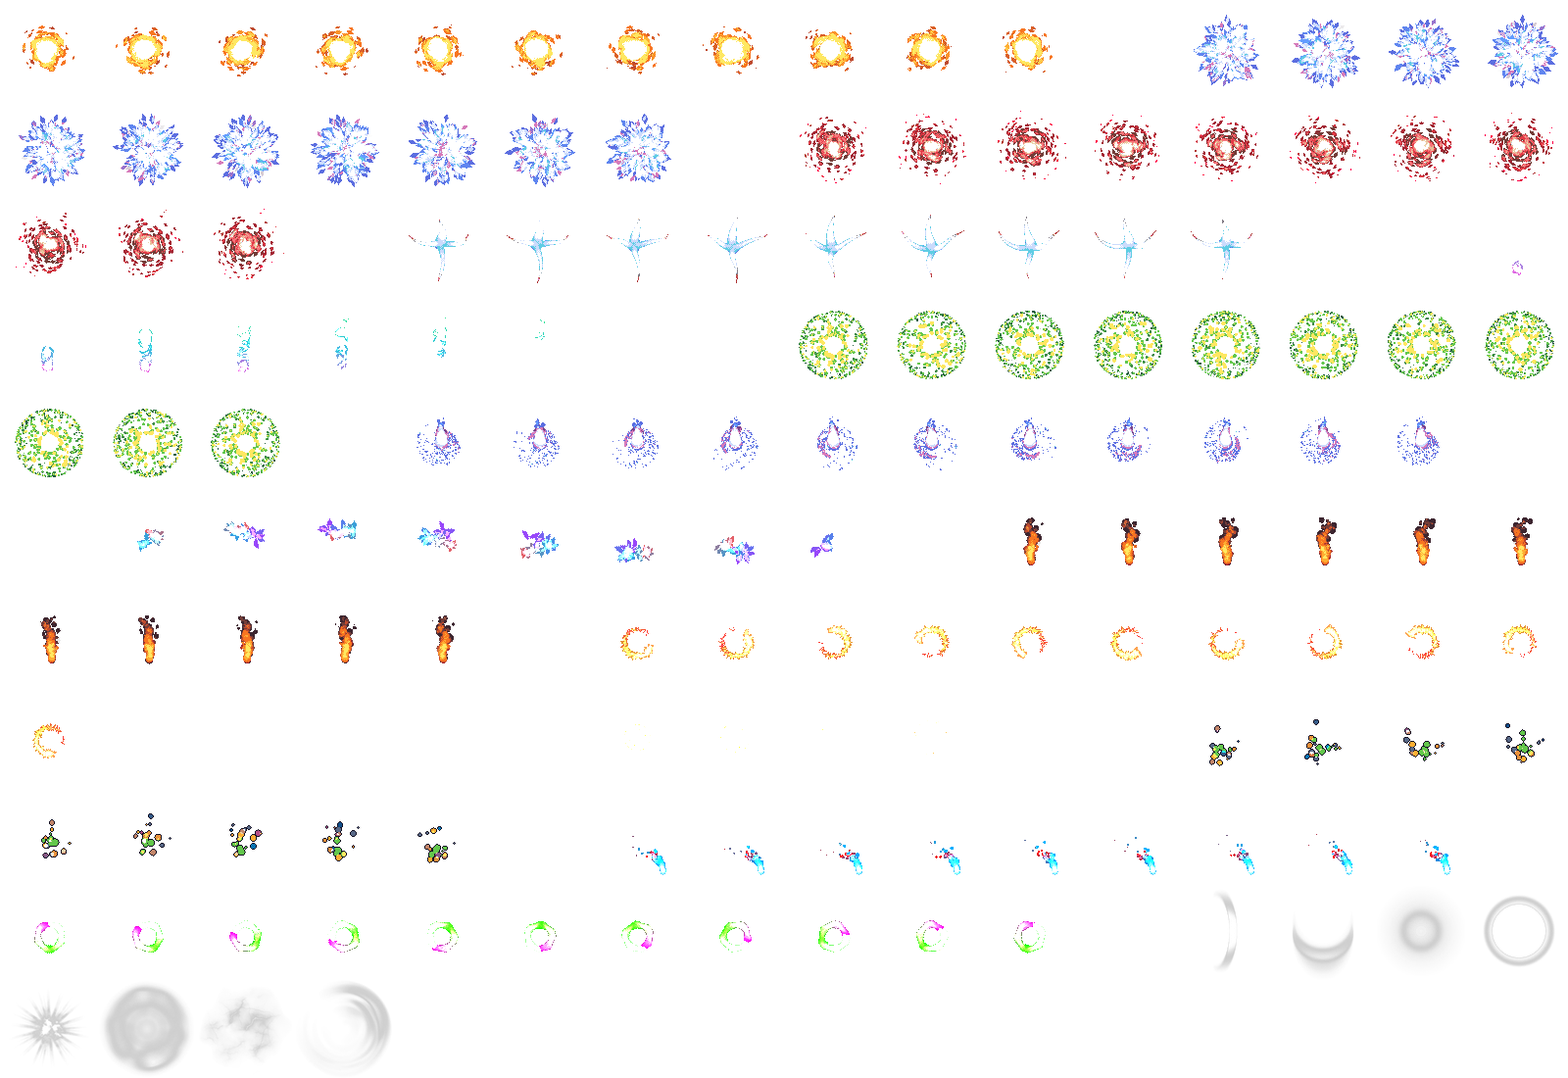
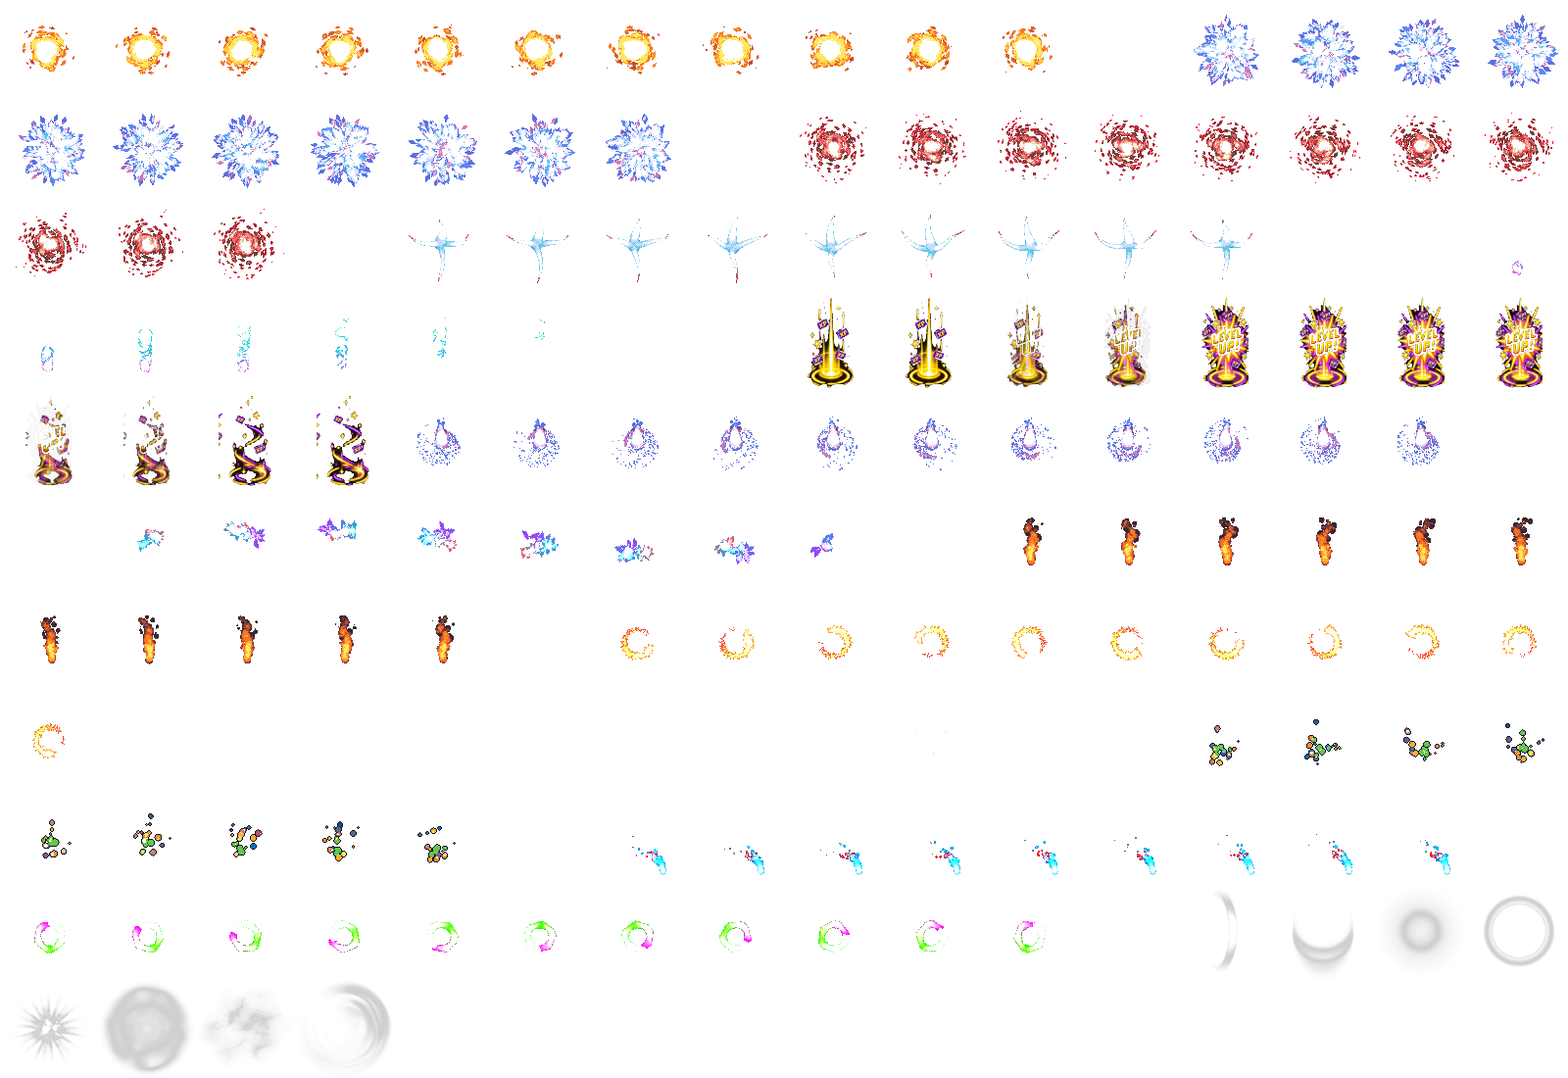
feat: gold/purple LEVEL UP FX instead of green glow
Replace CodeManu felspell with custom afx_levelup, feet-anchored so the ring sits on the character.

Changed region(s): [[0.5, 0.2782, 1.0, 0.3709], [0.0, 0.3709, 0.25, 0.4636]]

diff --git a/src/game/data/atlas-frames/anim-fx.js b/src/game/data/atlas-frames/anim-fx.js
@@ -1,4 +1,5 @@
 // Автогенерировано tools/assets/build_anim_atlas.py — не редактировать руками.
-// Источники: CodeManu Free Pixel Effects Pack (CC0), Kenney Particle Pack (CC0).
-window.ANIM_FX_DEFS = {"afx_explosion": {"frames": 12, "loop": false, "fps": 24, "tint": false}, "afx_bigburst": {"frames": 12, "loop": false, "fps": 24, "tint": false}, "afx_vortex": {"frames": 12, "loop": true, "fps": 20, "tint": false}, "afx_slash": {"frames": 10, "loop": false, "fps": 26, "tint": false}, "afx_hit": {"frames": 10, "loop": false, "fps": 28, "tint": false}, "afx_levelup": {"frames": 12, "loop": false, "fps": 22, "tint": false}, "afx_darkburst": {"frames": 12, "loop": false, "fps": 22, "tint": false}, "afx_heal": {"frames": 10, "loop": false, "fps": 22, "tint": false}, "afx_fireloop": {"frames": 12, "loop": true, "fps": 16, "tint": false}, "afx_firespin": {"frames": 12, "loop": true, "fps": 18, "tint": false}, "afx_ring": {"frames": 10, "loop": false, "fps": 26, "tint": false}, "afx_bubbles": {"frames": 10, "loop": true, "fps": 14, "tint": false}, "afx_bluefire": {"frames": 10, "loop": false, "fps": 24, "tint": false}, "afx_protect": {"frames": 12, "loop": true, "fps": 16, "tint": false}, "kfx_slash": {"frames": 1, "loop": false, "fps": 1, "tint": true}, "kfx_slash_wide": {"frames": 1, "loop": false, "fps": 1, "tint": true}, "kfx_circle": {"frames": 1, "loop": false, "fps": 1, "tint": true}, "kfx_circle_hard": {"frames": 1, "loop": false, "fps": 1, "tint": true}, "kfx_scorch": {"frames": 1, "loop": false, "fps": 1, "tint": true}, "kfx_glow": {"frames": 1, "loop": false, "fps": 1, "tint": true}, "kfx_spark": {"frames": 1, "loop": false, "fps": 1, "tint": true}, "kfx_twirl": {"frames": 1, "loop": false, "fps": 1, "tint": true}};
+// Источники: CodeManu Free Pixel Effects Pack (CC0), Kenney Particle Pack (CC0),
+// кастомный afx_levelup (tools/assets/custom).
+window.ANIM_FX_DEFS = {"afx_explosion": {"frames": 12, "loop": false, "fps": 24, "tint": false}, "afx_bigburst": {"frames": 12, "loop": false, "fps": 24, "tint": false}, "afx_vortex": {"frames": 12, "loop": true, "fps": 20, "tint": false}, "afx_slash": {"frames": 10, "loop": false, "fps": 26, "tint": false}, "afx_hit": {"frames": 10, "loop": false, "fps": 28, "tint": false}, "afx_levelup": {"frames": 12, "loop": false, "fps": 18, "tint": false}, "afx_darkburst": {"frames": 12, "loop": false, "fps": 22, "tint": false}, "afx_heal": {"frames": 10, "loop": false, "fps": 22, "tint": false}, "afx_fireloop": {"frames": 12, "loop": true, "fps": 16, "tint": false}, "afx_firespin": {"frames": 12, "loop": true, "fps": 18, "tint": false}, "afx_ring": {"frames": 10, "loop": false, "fps": 26, "tint": false}, "afx_bubbles": {"frames": 10, "loop": true, "fps": 14, "tint": false}, "afx_bluefire": {"frames": 10, "loop": false, "fps": 24, "tint": false}, "afx_protect": {"frames": 12, "loop": true, "fps": 16, "tint": false}, "kfx_slash": {"frames": 1, "loop": false, "fps": 1, "tint": true}, "kfx_slash_wide": {"frames": 1, "loop": false, "fps": 1, "tint": true}, "kfx_circle": {"frames": 1, "loop": false, "fps": 1, "tint": true}, "kfx_circle_hard": {"frames": 1, "loop": false, "fps": 1, "tint": true}, "kfx_scorch": {"frames": 1, "loop": false, "fps": 1, "tint": true}, "kfx_glow": {"frames": 1, "loop": false, "fps": 1, "tint": true}, "kfx_spark": {"frames": 1, "loop": false, "fps": 1, "tint": true}, "kfx_twirl": {"frames": 1, "loop": false, "fps": 1, "tint": true}};
 window.ANIM_FX_FRAMES = {"afx_explosion": [{"x": 0, "y": 0, "w": 100, "h": 100}, {"x": 100, "y": 0, "w": 100, "h": 100}, {"x": 200, "y": 0, "w": 100, "h": 100}, {"x": 300, "y": 0, "w": 100, "h": 100}, {"x": 400, "y": 0, "w": 100, "h": 100}, {"x": 500, "y": 0, "w": 100, "h": 100}, {"x": 600, "y": 0, "w": 100, "h": 100}, {"x": 700, "y": 0, "w": 100, "h": 100}, {"x": 800, "y": 0, "w": 100, "h": 100}, {"x": 900, "y": 0, "w": 100, "h": 100}, {"x": 1000, "y": 0, "w": 100, "h": 100}, {"x": 1100, "y": 0, "w": 100, "h": 100}], "afx_bigburst": [{"x": 1200, "y": 0, "w": 100, "h": 100}, {"x": 1300, "y": 0, "w": 100, "h": 100}, {"x": 1400, "y": 0, "w": 100, "h": 100}, {"x": 1500, "y": 0, "w": 100, "h": 100}, {"x": 0, "y": 100, "w": 100, "h": 100}, {"x": 100, "y": 100, "w": 100, "h": 100}, {"x": 200, "y": 100, "w": 100, "h": 100}, {"x": 300, "y": 100, "w": 100, "h": 100}, {"x": 400, "y": 100, "w": 100, "h": 100}, {"x": 500, "y": 100, "w": 100, "h": 100}, {"x": 600, "y": 100, "w": 100, "h": 100}, {"x": 700, "y": 100, "w": 100, "h": 100}], "afx_vortex": [{"x": 800, "y": 100, "w": 100, "h": 100}, {"x": 900, "y": 100, "w": 100, "h": 100}, {"x": 1000, "y": 100, "w": 100, "h": 100}, {"x": 1100, "y": 100, "w": 100, "h": 100}, {"x": 1200, "y": 100, "w": 100, "h": 100}, {"x": 1300, "y": 100, "w": 100, "h": 100}, {"x": 1400, "y": 100, "w": 100, "h": 100}, {"x": 1500, "y": 100, "w": 100, "h": 100}, {"x": 0, "y": 200, "w": 100, "h": 100}, {"x": 100, "y": 200, "w": 100, "h": 100}, {"x": 200, "y": 200, "w": 100, "h": 100}, {"x": 300, "y": 200, "w": 100, "h": 100}], "afx_slash": [{"x": 400, "y": 200, "w": 100, "h": 100}, {"x": 500, "y": 200, "w": 100, "h": 100}, {"x": 600, "y": 200, "w": 100, "h": 100}, {"x": 700, "y": 200, "w": 100, "h": 100}, {"x": 800, "y": 200, "w": 100, "h": 100}, {"x": 900, "y": 200, "w": 100, "h": 100}, {"x": 1000, "y": 200, "w": 100, "h": 100}, {"x": 1100, "y": 200, "w": 100, "h": 100}, {"x": 1200, "y": 200, "w": 100, "h": 100}, {"x": 1300, "y": 200, "w": 100, "h": 100}], "afx_hit": [{"x": 1400, "y": 200, "w": 100, "h": 100}, {"x": 1500, "y": 200, "w": 100, "h": 100}, {"x": 0, "y": 300, "w": 100, "h": 100}, {"x": 100, "y": 300, "w": 100, "h": 100}, {"x": 200, "y": 300, "w": 100, "h": 100}, {"x": 300, "y": 300, "w": 100, "h": 100}, {"x": 400, "y": 300, "w": 100, "h": 100}, {"x": 500, "y": 300, "w": 100, "h": 100}, {"x": 600, "y": 300, "w": 100, "h": 100}, {"x": 700, "y": 300, "w": 100, "h": 100}], "afx_levelup": [{"x": 800, "y": 300, "w": 100, "h": 100}, {"x": 900, "y": 300, "w": 100, "h": 100}, {"x": 1000, "y": 300, "w": 100, "h": 100}, {"x": 1100, "y": 300, "w": 100, "h": 100}, {"x": 1200, "y": 300, "w": 100, "h": 100}, {"x": 1300, "y": 300, "w": 100, "h": 100}, {"x": 1400, "y": 300, "w": 100, "h": 100}, {"x": 1500, "y": 300, "w": 100, "h": 100}, {"x": 0, "y": 400, "w": 100, "h": 100}, {"x": 100, "y": 400, "w": 100, "h": 100}, {"x": 200, "y": 400, "w": 100, "h": 100}, {"x": 300, "y": 400, "w": 100, "h": 100}], "afx_darkburst": [{"x": 400, "y": 400, "w": 100, "h": 100}, {"x": 500, "y": 400, "w": 100, "h": 100}, {"x": 600, "y": 400, "w": 100, "h": 100}, {"x": 700, "y": 400, "w": 100, "h": 100}, {"x": 800, "y": 400, "w": 100, "h": 100}, {"x": 900, "y": 400, "w": 100, "h": 100}, {"x": 1000, "y": 400, "w": 100, "h": 100}, {"x": 1100, "y": 400, "w": 100, "h": 100}, {"x": 1200, "y": 400, "w": 100, "h": 100}, {"x": 1300, "y": 400, "w": 100, "h": 100}, {"x": 1400, "y": 400, "w": 100, "h": 100}, {"x": 1500, "y": 400, "w": 100, "h": 100}], "afx_heal": [{"x": 0, "y": 500, "w": 100, "h": 100}, {"x": 100, "y": 500, "w": 100, "h": 100}, {"x": 200, "y": 500, "w": 100, "h": 100}, {"x": 300, "y": 500, "w": 100, "h": 100}, {"x": 400, "y": 500, "w": 100, "h": 100}, {"x": 500, "y": 500, "w": 100, "h": 100}, {"x": 600, "y": 500, "w": 100, "h": 100}, {"x": 700, "y": 500, "w": 100, "h": 100}, {"x": 800, "y": 500, "w": 100, "h": 100}, {"x": 900, "y": 500, "w": 100, "h": 100}], "afx_fireloop": [{"x": 1000, "y": 500, "w": 100, "h": 100}, {"x": 1100, "y": 500, "w": 100, "h": 100}, {"x": 1200, "y": 500, "w": 100, "h": 100}, {"x": 1300, "y": 500, "w": 100, "h": 100}, {"x": 1400, "y": 500, "w": 100, "h": 100}, {"x": 1500, "y": 500, "w": 100, "h": 100}, {"x": 0, "y": 600, "w": 100, "h": 100}, {"x": 100, "y": 600, "w": 100, "h": 100}, {"x": 200, "y": 600, "w": 100, "h": 100}, {"x": 300, "y": 600, "w": 100, "h": 100}, {"x": 400, "y": 600, "w": 100, "h": 100}, {"x": 500, "y": 600, "w": 100, "h": 100}], "afx_firespin": [{"x": 600, "y": 600, "w": 100, "h": 100}, {"x": 700, "y": 600, "w": 100, "h": 100}, {"x": 800, "y": 600, "w": 100, "h": 100}, {"x": 900, "y": 600, "w": 100, "h": 100}, {"x": 1000, "y": 600, "w": 100, "h": 100}, {"x": 1100, "y": 600, "w": 100, "h": 100}, {"x": 1200, "y": 600, "w": 100, "h": 100}, {"x": 1300, "y": 600, "w": 100, "h": 100}, {"x": 1400, "y": 600, "w": 100, "h": 100}, {"x": 1500, "y": 600, "w": 100, "h": 100}, {"x": 0, "y": 700, "w": 100, "h": 100}, {"x": 100, "y": 700, "w": 100, "h": 100}], "afx_ring": [{"x": 200, "y": 700, "w": 100, "h": 100}, {"x": 300, "y": 700, "w": 100, "h": 100}, {"x": 400, "y": 700, "w": 100, "h": 100}, {"x": 500, "y": 700, "w": 100, "h": 100}, {"x": 600, "y": 700, "w": 100, "h": 100}, {"x": 700, "y": 700, "w": 100, "h": 100}, {"x": 800, "y": 700, "w": 100, "h": 100}, {"x": 900, "y": 700, "w": 100, "h": 100}, {"x": 1000, "y": 700, "w": 100, "h": 100}, {"x": 1100, "y": 700, "w": 100, "h": 100}], "afx_bubbles": [{"x": 1200, "y": 700, "w": 100, "h": 100}, {"x": 1300, "y": 700, "w": 100, "h": 100}, {"x": 1400, "y": 700, "w": 100, "h": 100}, {"x": 1500, "y": 700, "w": 100, "h": 100}, {"x": 0, "y": 800, "w": 100, "h": 100}, {"x": 100, "y": 800, "w": 100, "h": 100}, {"x": 200, "y": 800, "w": 100, "h": 100}, {"x": 300, "y": 800, "w": 100, "h": 100}, {"x": 400, "y": 800, "w": 100, "h": 100}, {"x": 500, "y": 800, "w": 100, "h": 100}], "afx_bluefire": [{"x": 600, "y": 800, "w": 100, "h": 100}, {"x": 700, "y": 800, "w": 100, "h": 100}, {"x": 800, "y": 800, "w": 100, "h": 100}, {"x": 900, "y": 800, "w": 100, "h": 100}, {"x": 1000, "y": 800, "w": 100, "h": 100}, {"x": 1100, "y": 800, "w": 100, "h": 100}, {"x": 1200, "y": 800, "w": 100, "h": 100}, {"x": 1300, "y": 800, "w": 100, "h": 100}, {"x": 1400, "y": 800, "w": 100, "h": 100}, {"x": 1500, "y": 800, "w": 100, "h": 100}], "afx_protect": [{"x": 0, "y": 900, "w": 100, "h": 100}, {"x": 100, "y": 900, "w": 100, "h": 100}, {"x": 200, "y": 900, "w": 100, "h": 100}, {"x": 300, "y": 900, "w": 100, "h": 100}, {"x": 400, "y": 900, "w": 100, "h": 100}, {"x": 500, "y": 900, "w": 100, "h": 100}, {"x": 600, "y": 900, "w": 100, "h": 100}, {"x": 700, "y": 900, "w": 100, "h": 100}, {"x": 800, "y": 900, "w": 100, "h": 100}, {"x": 900, "y": 900, "w": 100, "h": 100}, {"x": 1000, "y": 900, "w": 100, "h": 100}, {"x": 1100, "y": 900, "w": 100, "h": 100}], "kfx_slash": [{"x": 1200, "y": 900, "w": 100, "h": 100}], "kfx_slash_wide": [{"x": 1300, "y": 900, "w": 100, "h": 100}], "kfx_circle": [{"x": 1400, "y": 900, "w": 100, "h": 100}], "kfx_circle_hard": [{"x": 1500, "y": 900, "w": 100, "h": 100}], "kfx_scorch": [{"x": 0, "y": 1000, "w": 100, "h": 100}], "kfx_glow": [{"x": 100, "y": 1000, "w": 100, "h": 100}], "kfx_spark": [{"x": 200, "y": 1000, "w": 100, "h": 100}], "kfx_twirl": [{"x": 300, "y": 1000, "w": 100, "h": 100}]};

diff --git a/src/game/modes/sale/loot.js b/src/game/modes/sale/loot.js
@@ -101,14 +101,14 @@ Game.prototype.applySalePowerup = function (pu) {
         this.salePassives[key] = (this.salePassives[key] || 0) + 1;
         this.applySalePassivesToPlayer();
         this.showEventBanner(`📦 В посылке ключ: ${SALE_PASSIVES[key].name}!`, 2.0);
-        this.spawnAnimFx('afx_levelup', p.x, p.y, { life: 0.65, scale: 0.9, scaleEnd: 1.3 });
+        this.spawnAnimFx('afx_levelup', p.x, p.y, { life: 0.95, scale: 1.2, scaleEnd: 1.65, anchorY: 0.9 });
         sfx.level();
         return;
       }
     }
     this.pendingUpgrades = (this.pendingUpgrades || 0) + 1;
     this.showEventBanner('📦 Посылка со склада: бесплатное улучшение!', 1.8);
-    this.spawnAnimFx('afx_levelup', p.x, p.y, { life: 0.65, scale: 0.9, scaleEnd: 1.3 });
+    this.spawnAnimFx('afx_levelup', p.x, p.y, { life: 0.95, scale: 1.2, scaleEnd: 1.65, anchorY: 0.9 });
     sfx.level();
     this.openSaleUpgradeUI();
   } else if (pu.kind === 'magnet') {

diff --git a/src/game/render/atlases/anim-fx.js b/src/game/render/atlases/anim-fx.js
@@ -46,18 +46,22 @@ function drawAnimFxFrame(ctx, id, x, y, opts = {}) {
   const target = opts.targetSize ?? 64;
   const scale = opts.scale != null ? opts.scale : target / 100;
   const dw = f.w * scale, dh = f.h * scale;
+  const ax = opts.anchorX ?? 0.5;
+  const ay = opts.anchorY ?? 0.5;
   ctx.save();
   ctx.translate(x, y);
   if (opts.rot) ctx.rotate(opts.rot);
   if (opts.alpha != null) ctx.globalAlpha = opts.alpha;
+  const ox = -dw * ax;
+  const oy = -dh * ay;
   if (opts.tint && def.tint) {
     const tc = tintedAnimFxCanvas(id, idx, opts.tint);
     if (!tc) { ctx.restore(); return false; }
     ctx.imageSmoothingEnabled = true;
-    ctx.drawImage(tc, -dw * 0.5, -dh * 0.5, dw, dh);
+    ctx.drawImage(tc, ox, oy, dw, dh);
   } else {
     ctx.imageSmoothingEnabled = !!def.tint;
-    ctx.drawImage(animFxImg, f.x, f.y, f.w, f.h, -dw * 0.5, -dh * 0.5, dw, dh);
+    ctx.drawImage(animFxImg, f.x, f.y, f.w, f.h, ox, oy, dw, dh);
   }
   ctx.restore();
   return true;

diff --git a/src/game/modes/sale/level-up.js b/src/game/modes/sale/level-up.js
@@ -269,8 +269,9 @@ Game.prototype.pickSaleUpgrade = function (i) {
     delete this.saleWeapons[up.from];
     this.saleWeapons[up.id] = 1;
     this.saleWeaponCd[up.id] = 0.1;
-    this.spawnAnimFx('afx_levelup', this.player.x, this.player.y, { life: 0.9, scale: 1.6, scaleEnd: 2.4 });
-    this.spawnAnimFx('afx_ring', this.player.x, this.player.y, { life: 0.55, scale: 1.2, scaleEnd: 3.2 });
+    this.spawnAnimFx('afx_levelup', this.player.x, this.player.y, {
+      life: 1.15, scale: 1.7, scaleEnd: 2.2, anchorY: 0.9,
+    });
     this.spawnParticles(this.player.x, this.player.y, 28, '#f1c40f', 240, 0.6);
     this.applySalePassivesToPlayer();
   } else if (up.kind === 'passive') {

diff --git a/src/game/fx/sprite-fx.js b/src/game/fx/sprite-fx.js
@@ -64,6 +64,8 @@ Object.assign(Game.prototype, {
       alpha: opts.alpha ?? 1,
       tint: opts.tint,
       fade: opts.fade !== false,
+      anchorX: opts.anchorX,
+      anchorY: opts.anchorY,
     });
   },
 
@@ -80,6 +82,8 @@ Object.assign(Game.prototype, {
         rot: fx.rot,
         alpha,
         tint: fx.tint,
+        anchorX: fx.anchorX,
+        anchorY: fx.anchorY,
       });
     }
   },

diff --git a/src/game/modes/sale/progression.js b/src/game/modes/sale/progression.js
@@ -49,7 +49,7 @@ Game.prototype.gainSaleXp = function (amount) {
     this.openSaleUpgradeUI();
     sfx.level();
     this.spawnAnimFx('afx_levelup', this.player.x, this.player.y, {
-      life: 0.7, scale: 1.1, scaleEnd: 1.5,
+      life: 1.0, scale: 1.35, scaleEnd: 1.85, anchorY: 0.9,
     });
     this.spawnParticles(this.player.x, this.player.y, 22, '#f1c40f', 200, 0.55);
   }

diff --git a/sw.js b/sw.js
@@ -1,6 +1,6 @@
 /* Minimal offline shell for Sale — cache core assets (GitHub Pages /consultant-game/). */
 const BASE = self.registration.scope; // e.g. https://…/consultant-game/
-const CACHE = 'sale-ff22879d50';
+const CACHE = 'sale-53853126f6';
 
 // >>> generated by tools/sync-sw-precache.mjs — правится скриптом, не руками
 const ASSETS = [

diff --git a/tools/assets/build_anim_atlas.py b/tools/assets/build_anim_atlas.py
@@ -4,6 +4,7 @@
 Источники (см. ATTRIBUTION.md):
 - CodeManu «Free Pixel Effects Pack» (CC0) — анимированные эффекты 100x100
 - Kenney «Particle Pack» (CC0) — белые тонируемые частицы (даунскейл до 128px)
+- tools/assets/custom — кастомный afx_levelup (золотой LEVEL UP)
 """
 import json
 import os
@@ -16,6 +17,7 @@ OUT_JS = os.path.join(REPO, 'src', 'game', 'data', 'atlas-frames', 'anim-fx.js')
 
 CM = os.path.join(ROOT, 'codemanu')
 KN = os.path.join(ROOT, 'kenney_particles')
+CUSTOM = os.path.join(ROOT, 'custom')
 
 # id -> (файл, размер кадра листа, сколько кадров взять, loop, fps)
 CODEMANU = {
@@ -24,15 +26,20 @@ CODEMANU = {
     'afx_vortex':     ('13_vortex_spritesheet.png', 100, 12, True, 20),
     'afx_slash':      ('14_phantom_spritesheet.png', 100, 10, False, 26),
     'afx_hit':        ('5_magickahit_spritesheet.png', 100, 10, False, 28),
-    'afx_levelup':    ('17_felspell_spritesheet.png', 100, 12, False, 22),
+    # afx_levelup — кастомный золотой (CUSTOM_SHEETS), не зелёный felspell
     'afx_darkburst':  ('18_midnight_spritesheet.png', 100, 12, False, 22),
     'afx_heal':       ('1_magicspell_spritesheet.png', 100, 10, False, 22),
-    'afx_fireloop':   ('11_fire_spritesheet.png', 100, 12, True, 16),
-    'afx_firespin':   ('7_firespin_spritesheet.png', 100, 12, True, 18),
+    'afx_fireloop':   ('11_fire_spritesheet.png', 100, 12, False, 16),
+    'afx_firespin':   ('7_firespin_spritesheet.png', 100, 12, False, 18),
     'afx_ring':       ('10_weaponhit_spritesheet.png', 100, 10, False, 26),
-    'afx_bubbles':    ('20_magicbubbles_spritesheet.png', 100, 10, True, 14),
+    'afx_bubbles':    ('20_magicbubbles_spritesheet.png', 100, 10, False, 14),
     'afx_bluefire':   ('3_bluefire_spritesheet.png', 100, 10, False, 24),
-    'afx_protect':    ('8_protectioncircle_spritesheet.png', 100, 12, True, 16),
+    'afx_protect':    ('8_protectioncircle_spritesheet.png', 100, 12, False, 16),
+}
+
+# Кастомные горизонтальные sheets: id -> (файл, cell, frames, loop, fps)
+CUSTOM_SHEETS = {
+    'afx_levelup': ('afx_levelup_spritesheet.png', 100, 12, False, 18),
 }
 
 # Kenney: одиночные белые кадры под тонировку (128px)
@@ -64,7 +71,56 @@ def sample_frames(img, fw, count):
     return out
 
 
+def write_js(defs, frames_meta):
+    js = (
+        '// Автогенерировано tools/assets/build_anim_atlas.py — не редактировать руками.\n'
+        '// Источники: CodeManu Free Pixel Effects Pack (CC0), Kenney Particle Pack (CC0),\n'
+        '// кастомный afx_levelup (tools/assets/custom).\n'
+        'window.ANIM_FX_DEFS = ' + json.dumps(defs) + ';\n'
+        'window.ANIM_FX_FRAMES = ' + json.dumps(frames_meta) + ';\n'
+    )
+    with open(OUT_JS, 'w', encoding='utf-8') as f:
+        f.write(js)
+
+
+def patch_custom_into_existing():
+    """Когда исходники CodeManu/Kenney нет локально — только вшить CUSTOM_SHEETS в готовый атлас."""
+    import re
+    with open(OUT_JS, encoding='utf-8') as f:
+        js = f.read()
+    defs = json.loads(re.search(r'window\.ANIM_FX_DEFS = (\{.*?\});', js).group(1))
+    frames_meta = json.loads(re.search(r'window\.ANIM_FX_FRAMES = (\{.*\});', js, re.S).group(1))
+    atlas = Image.open(OUT_PNG).convert('RGBA')
+
+    for fx_id, (fname, fw, count, loop, fps) in CUSTOM_SHEETS.items():
+        path = os.path.join(CUSTOM, fname)
+        img = Image.open(path).convert('RGBA')
+        if fx_id not in frames_meta or len(frames_meta[fx_id]) != count:
+            raise SystemExit(f'{fx_id}: в атласе {len(frames_meta.get(fx_id, []))} кадров, нужно {count}')
+        for i, meta in enumerate(frames_meta[fx_id]):
+            fr = img.crop((i * fw, 0, (i + 1) * fw, fw))
+            if fw != CELL:
+                fr = fr.resize((CELL, CELL), Image.LANCZOS)
+            x, y, w, h = meta['x'], meta['y'], meta['w'], meta['h']
+            blank = Image.new('RGBA', (w, h), (0, 0, 0, 0))
+            atlas.paste(blank, (x, y))
+            atlas.paste(fr, (x, y), fr)
+        defs[fx_id] = {'frames': count, 'loop': loop, 'fps': fps, 'tint': False}
+
+    atlas.save(OUT_PNG, optimize=True)
+    write_js(defs, frames_meta)
+    kb = os.path.getsize(OUT_PNG) / 1024
+    print(f'patched custom into atlas {atlas.width}x{atlas.height}, {kb:.0f} KB')
+
+
 def main():
+    cm_ok = os.path.isdir(CM) and os.path.isfile(os.path.join(CM, next(iter(CODEMANU.values()))[0]))
+    kn_ok = os.path.isdir(KN) and os.path.isfile(os.path.join(KN, next(iter(KENNEY.values()))))
+    if not cm_ok or not kn_ok:
+        print('CodeManu/Kenney sources missing — patch custom sheets only')
+        patch_custom_into_existing()
+        return
+
     cells = []  # (эффект, номер кадра, изображение 100x100)
     defs = {}
 
@@ -75,6 +131,19 @@ def main():
         for i, fr in enumerate(frames):
             if fw != CELL:
                 fr = fr.resize((CELL, CELL), Image.NEAREST)
+            cells.append((fx_id, i, fr))
+
+    for fx_id, (fname, fw, count, loop, fps) in CUSTOM_SHEETS.items():
+        path = os.path.join(CUSTOM, fname)
+        img = Image.open(path).convert('RGBA')
+        frames = []
+        for i in range(count):
+            fr = img.crop((i * fw, 0, (i + 1) * fw, fw))
+            if fw != CELL:
+                fr = fr.resize((CELL, CELL), Image.LANCZOS)
+            frames.append(fr)
+        defs[fx_id] = {'frames': len(frames), 'loop': loop, 'fps': fps, 'tint': False}
+        for i, fr in enumerate(frames):
             cells.append((fx_id, i, fr))
 
     for fx_id, fname in KENNEY.items():
@@ -95,15 +164,7 @@ def main():
         frames_meta.setdefault(fx_id, []).append({'x': x, 'y': y, 'w': CELL, 'h': CELL})
 
     atlas.save(OUT_PNG, optimize=True)
-
-    js = (
-        '// Автогенерировано tools/assets/build_anim_atlas.py — не редактировать руками.\n'
-        '// Источники: CodeManu Free Pixel Effects Pack (CC0), Kenney Particle Pack (CC0).\n'
-        'window.ANIM_FX_DEFS = ' + json.dumps(defs) + ';\n'
-        'window.ANIM_FX_FRAMES = ' + json.dumps(frames_meta) + ';\n'
-    )
-    with open(OUT_JS, 'w') as f:
-        f.write(js)
+    write_js(defs, frames_meta)
 
     kb = os.path.getsize(OUT_PNG) / 1024
     print(f'atlas {atlas.width}x{atlas.height}, {kb:.0f} KB, effects={len(defs)}, cells={len(cells)}')

diff --git a/docs/ATTRIBUTION.md b/docs/ATTRIBUTION.md
@@ -18,8 +18,12 @@
 ### Free Pixel Effects Pack — CodeManu
 - https://opengameart.org/content/free-pixel-effects-pack
 - License: CC0 (public domain)
-- Использовано: взрывы, левел-ап, появление/смерть боссов, вихрь магнита,
+- Использовано: взрывы, появление/смерть боссов, вихрь магнита,
   огонь пожара, пузыри яда, хил, искры попаданий, кольца ударной волны.
+  (Старый зелёный level-up из пака заменён кастомным `afx_levelup`.)
+
+### Кастомный level-up (`tools/assets/custom/afx_levelup_spritesheet.png`)
+- Золотой/фиолетовый «LEVEL UP!» (луч → вспышка → спираль), вшит в `anim_fx_atlas.png`.
 
 ### Particle Pack — Kenney (kenney.nl)
 - https://kenney.nl/assets/particle-pack
